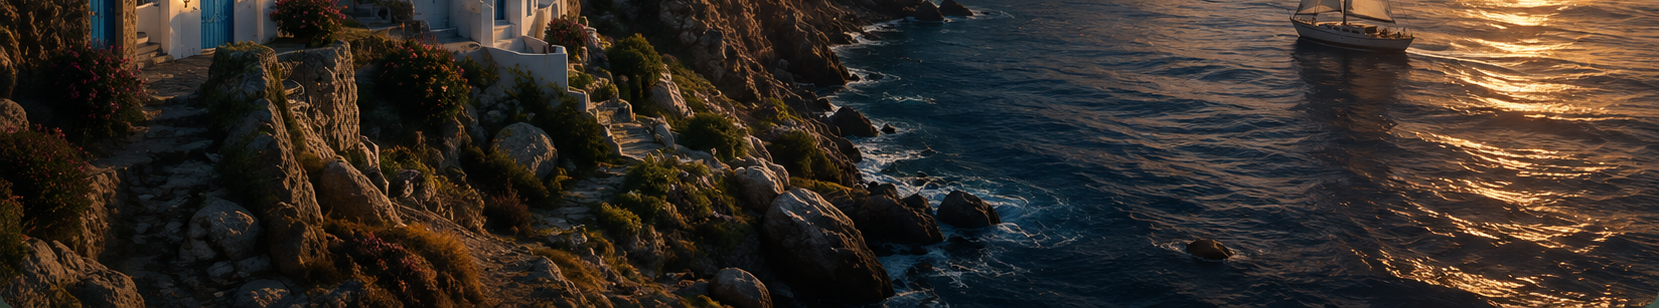
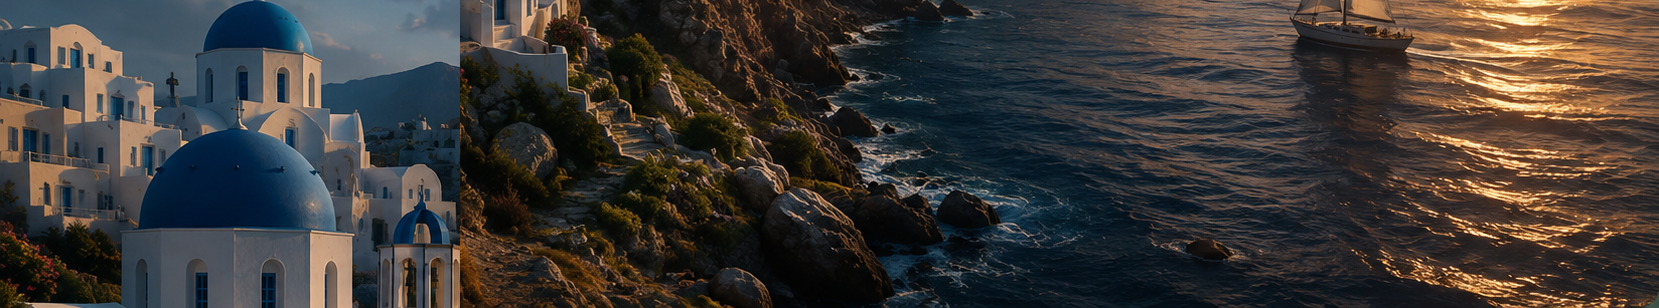
Hero: replace single-band crop with a composed two-region panorama
The prior derivative (little-utopia-hero-banner.png v1) correctly matched
the Hero's rendered aspect ratio via a single horizontal crop, but as a
thin slice it lost the blue-domed church - the village's most
identifiable feature - because the domes sit well above any band tall
enough to also clear the baked title text and short enough to hit the
target ratio. Matching the ratio was not enough; the derivative also
needed the right content.

Replaced it with a genuine composed panorama: two regions of the SAME
source photograph, both cropped at native (unscaled, undistorted) pixel
resolution so neither is stretched - a village panel (x0-460, y150-458:
both blue domes, the bell tower, steps, blue door, flowers, confirmed
clear of the baked title) placed beside a coast/sea/sunset panel (x460-
1659, y640-948: cliff, full sailboat with sail intact, sunset reflection,
confirmed 72px below the baked subtitle's last text row). Both panels are
the same photograph at the same native scale, so joining them reads as a
continuous wide shot; a narrow ~16px feather softens the hard pixel edge
without introducing ghosting. Composed locally with Pillow only - no
generative/outpainting dependency added. Final size 1659x308 (5.386:1),
same filename, so no import/CSS changes were needed - .ph-hero-art still
uses plain background-size:cover/background-position:center.

Verified by direct visual inspection (not just ratio/margin math) at
[…]

Changed region(s): [[0.0, 0.0, 0.2767, 1.0]]

diff --git a/frametax2/frontend/src/components/ProductionHero.jsx b/frametax2/frontend/src/components/ProductionHero.jsx
@@ -16,20 +16,29 @@ import heroArt from "../assets/production-art/little-utopia-hero-banner.png";
 // PRODUCTION SHELL CLOSEOUT (asset-level fix): the original key art
 // (little-utopia-hero.png, 1659x948, aspect ~1.75:1) could never fit this
 // hero's actual rendered shape (measured 4.99:1 at 1440px up to 6.98:1 at
-// 1920px, canonical 1600px ≈5.65:1) without either showing a tiny sliver
-// of the image or repeatedly re-tuning background-size/position — the
-// asset's own geometry was the problem, not the CSS. `little-utopia-
-// hero-banner.png` is a purpose-built derivative: a horizontal band
-// cropped from the same source (full 1659px width, y640-948, ratio
-// 5.386:1 — within the measured target range) chosen by direct pixel
-// measurement to sit safely below the baked subtitle text (which a row-
-// brightness scan confirmed ends at y568, giving this crop a 72px margin)
-// while keeping the full sailboat, the rocky coastline, sunset reflection,
-// and enough of the village (steps, blue door, flowers, white walls) that
-// the intended village → coast → sea → sunset read survives. No baked
-// typography survives in this derivative at all (the crop excludes that
-// entire vertical band, not just at one viewport). See the Asset-Aspect-
-// Ratio permanent rule in CAPABILITY_LEDGER.md.
+// 1920px, canonical 1600px ≈5.65:1) — the asset's own geometry was the
+// problem, not the CSS. A first derivative (a single horizontal band
+// cropped from the source) technically avoided the baked title but lost
+// the blue-domed church — the village's most identifiable feature — since
+// the domes sit well above any band tall enough to also clear the text
+// safely and short enough to hit the target ratio.
+//
+// `little-utopia-hero-banner.png` (1659x308, ratio 5.386:1) is instead a
+// TWO-REGION composite of the SAME source photograph, both regions taken
+// at native (unscaled, undistorted) pixel resolution so neither is
+// stretched: a village panel (x0-460, y150-458 — both domes, the bell
+// tower, steps, blue door, flowers, fully clear of the baked title, which
+// a row-brightness pixel scan confirmed never reaches past x~480) placed
+// beside a coast/sea/sunset panel (x460-1659, y640-948 — cliff, full
+// sailboat, sunset reflection, confirmed 72px below the baked subtitle's
+// last text row at y568). Both panels are the same real photograph at the
+// same native scale, so joining them reads as a continuous wide shot, not
+// a collage; the ~16px join is feather-blended only to soften the hard
+// pixel edge, not to hide a scale or lighting mismatch. Composed with
+// local Pillow only — no generative/outpainting dependency. Zero baked
+// typography survives (both source regions are chosen entirely outside
+// the text band). See the Asset-Aspect-Ratio and Project Art Derivative
+// permanent rules in CAPABILITY_LEDGER.md.
 export default function ProductionHero({
   production,
   topStructure,

diff --git a/frametax2/docs/architecture/CAPABILITY_LEDGER.md b/frametax2/docs/architecture/CAPABILITY_LEDGER.md
@@ -325,14 +325,54 @@ Before repeatedly adjusting an image's crop/position values:
 `center 93%` → `108% auto`+`center bottom` → `100% auto`+`center bottom`)
 each fixed a narrow symptom (baked text resurfacing, over-zoomed texture)
 while the root cause — an asset whose own shape cannot fit this container
-— remained. Fixed by producing `little-utopia-hero-banner.png`, a
-5.386:1 derivative cropped from the same source at the exact vertical
-band (y640-948, confirmed via row-brightness pixel scan to sit 72px below
-the baked subtitle's last text row) that preserves the village, the full
-coastline, the full sailboat, and the sunset reflection. Once the asset's
-own ratio was close to the container's, plain `background-size: cover;
-background-position: center;` became sufficient — no further per-viewport
-tuning needed.
+— remained. First fixed with a single-band crop derivative (`little-
+utopia-hero-banner.png`, 5.386:1, y640-948 of the source) — which
+technically hit the target ratio but, being only a thin horizontal slice,
+lost the blue-domed church, the village's most identifiable feature.
+Corrected again in the same phase by replacing that derivative with a
+two-region native-scale composite (same source photograph, a village
+panel and a coast/sea/sunset panel from different parts of the same
+image, joined at native resolution with a narrow feather blend — see
+`ProductionHero.jsx`'s own comment for the exact regions and why this
+avoids both stretching and an obvious seam) — the Project Art Derivative
+rule below generalizes the lesson that motivated this second pass: even a
+correctly-ratioed derivative can still fail if it was produced by a
+mechanical crop rather than a deliberately composed one.
+
+## PERMANENT PROJECT RULE — Project Art Derivative Rule
+
+**Adopted 2026-08-03**, after a first Hero derivative that correctly
+matched the container's aspect ratio (via a single crop) still read as a
+thin, incomplete slice of the approved composition — hitting the right
+*ratio* is necessary but not sufficient; the derivative must also carry
+the right *content*. Applies to every current and future CineGlobe visual
+surface: hero banners, project-library cards, thumbnails, and any other
+fixed-aspect destination for a project's master key art.
+
+A project's master/key art is not expected to fit every UI surface
+directly — each destination surface gets its own derivative, produced
+deliberately for that surface, not reused via a single crop/scale value
+applied everywhere. For each required surface:
+1. Measure the destination's actual rendered aspect ratio (see the
+   Asset-Aspect-Ratio rule above).
+2. Generate or recompose a derivative specifically for that ratio —
+   composing from multiple regions of the master art at native scale
+   when a single crop window cannot hold every important element (this is
+   not "cropping harder"; it is deliberately choosing which real content
+   from the master art appears in the derivative, and how it is joined).
+3. Preserve the focal content that makes the composition read correctly
+   (for Little Utopia: village architecture, coastline, sea, sunset —
+   the identity established in the approved key art), not merely
+   whatever happens to survive a mechanical crop window.
+4. Remove baked UI/title typography from the derivative where the live
+   DOM already supplies that text — never solve this by scrimming over
+   readable source text instead.
+5. Avoid repeated CSS crop/position tuning once the derivative exists —
+   if the derivative is correct, the CSS rendering it should be simple
+   (`cover`/`center` or equivalent).
+
+This rule applies to all future CineGlobe projects' key art, not only
+Little Utopia's.
 
 ## SAUDI ARABIA ALTERNATIVE — NPC / INCENTIVE / STRUCTURE-COST RECONCILIATION AUDIT REQUIRED
 
